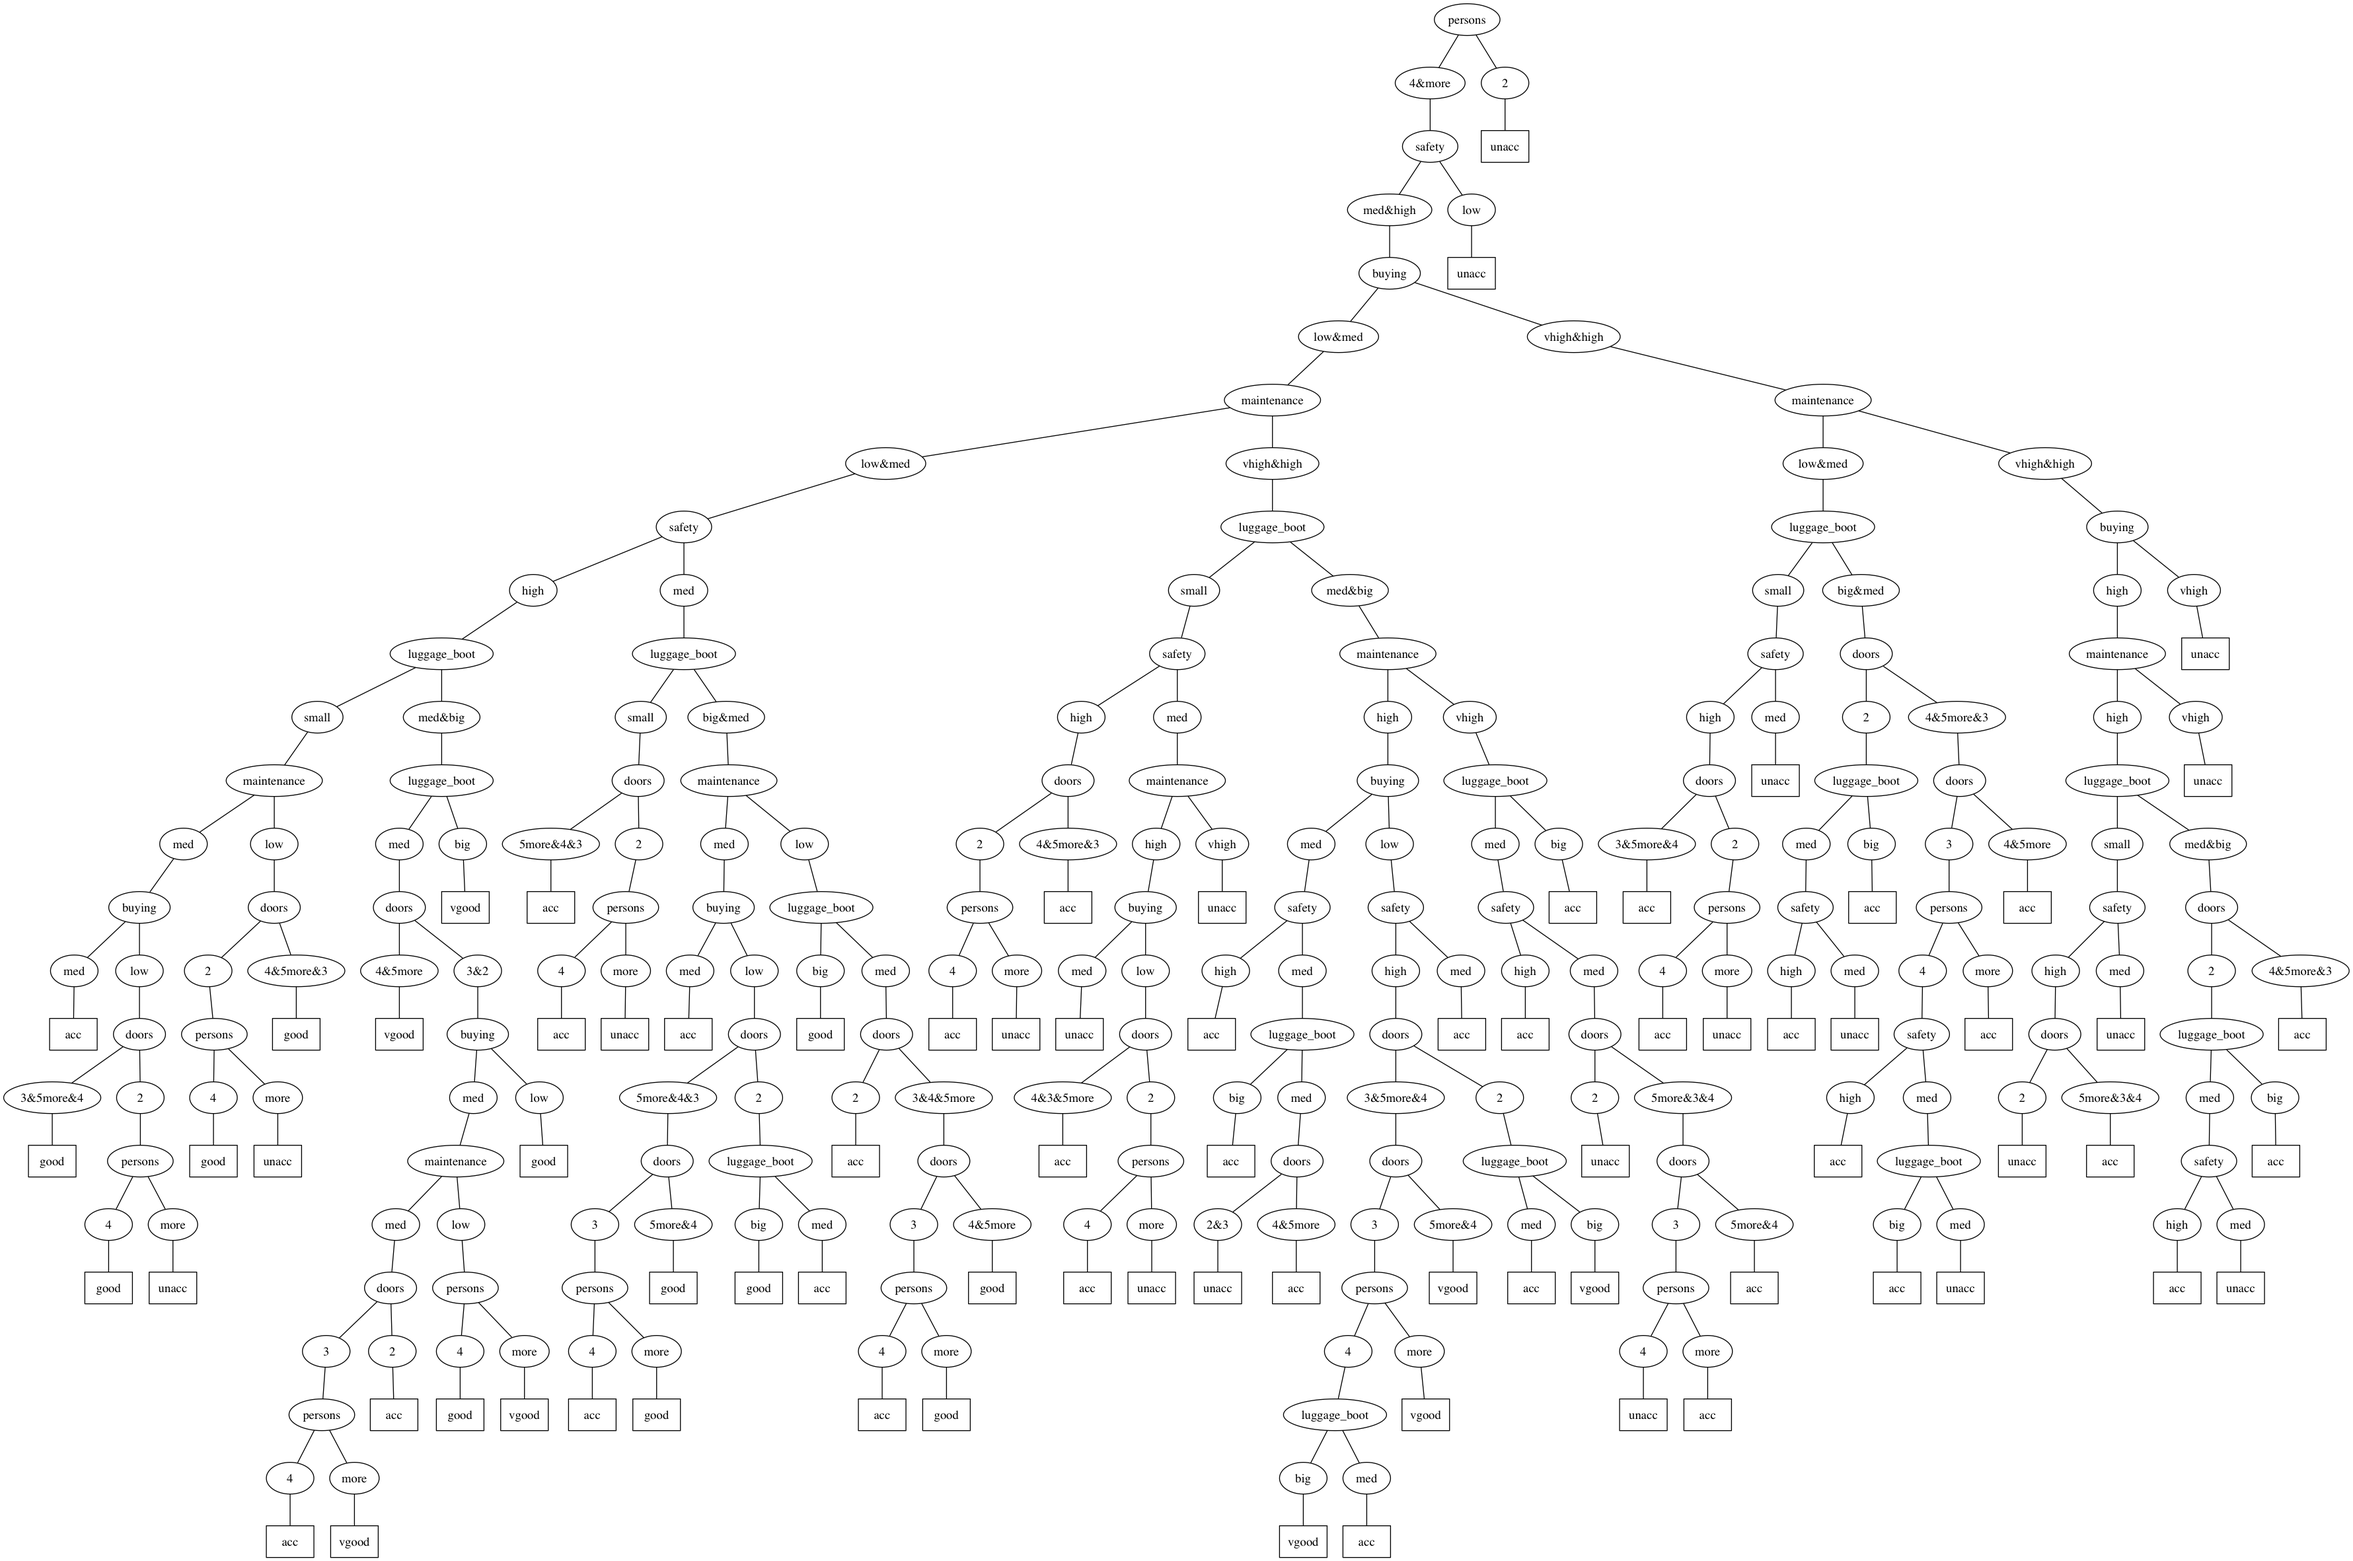
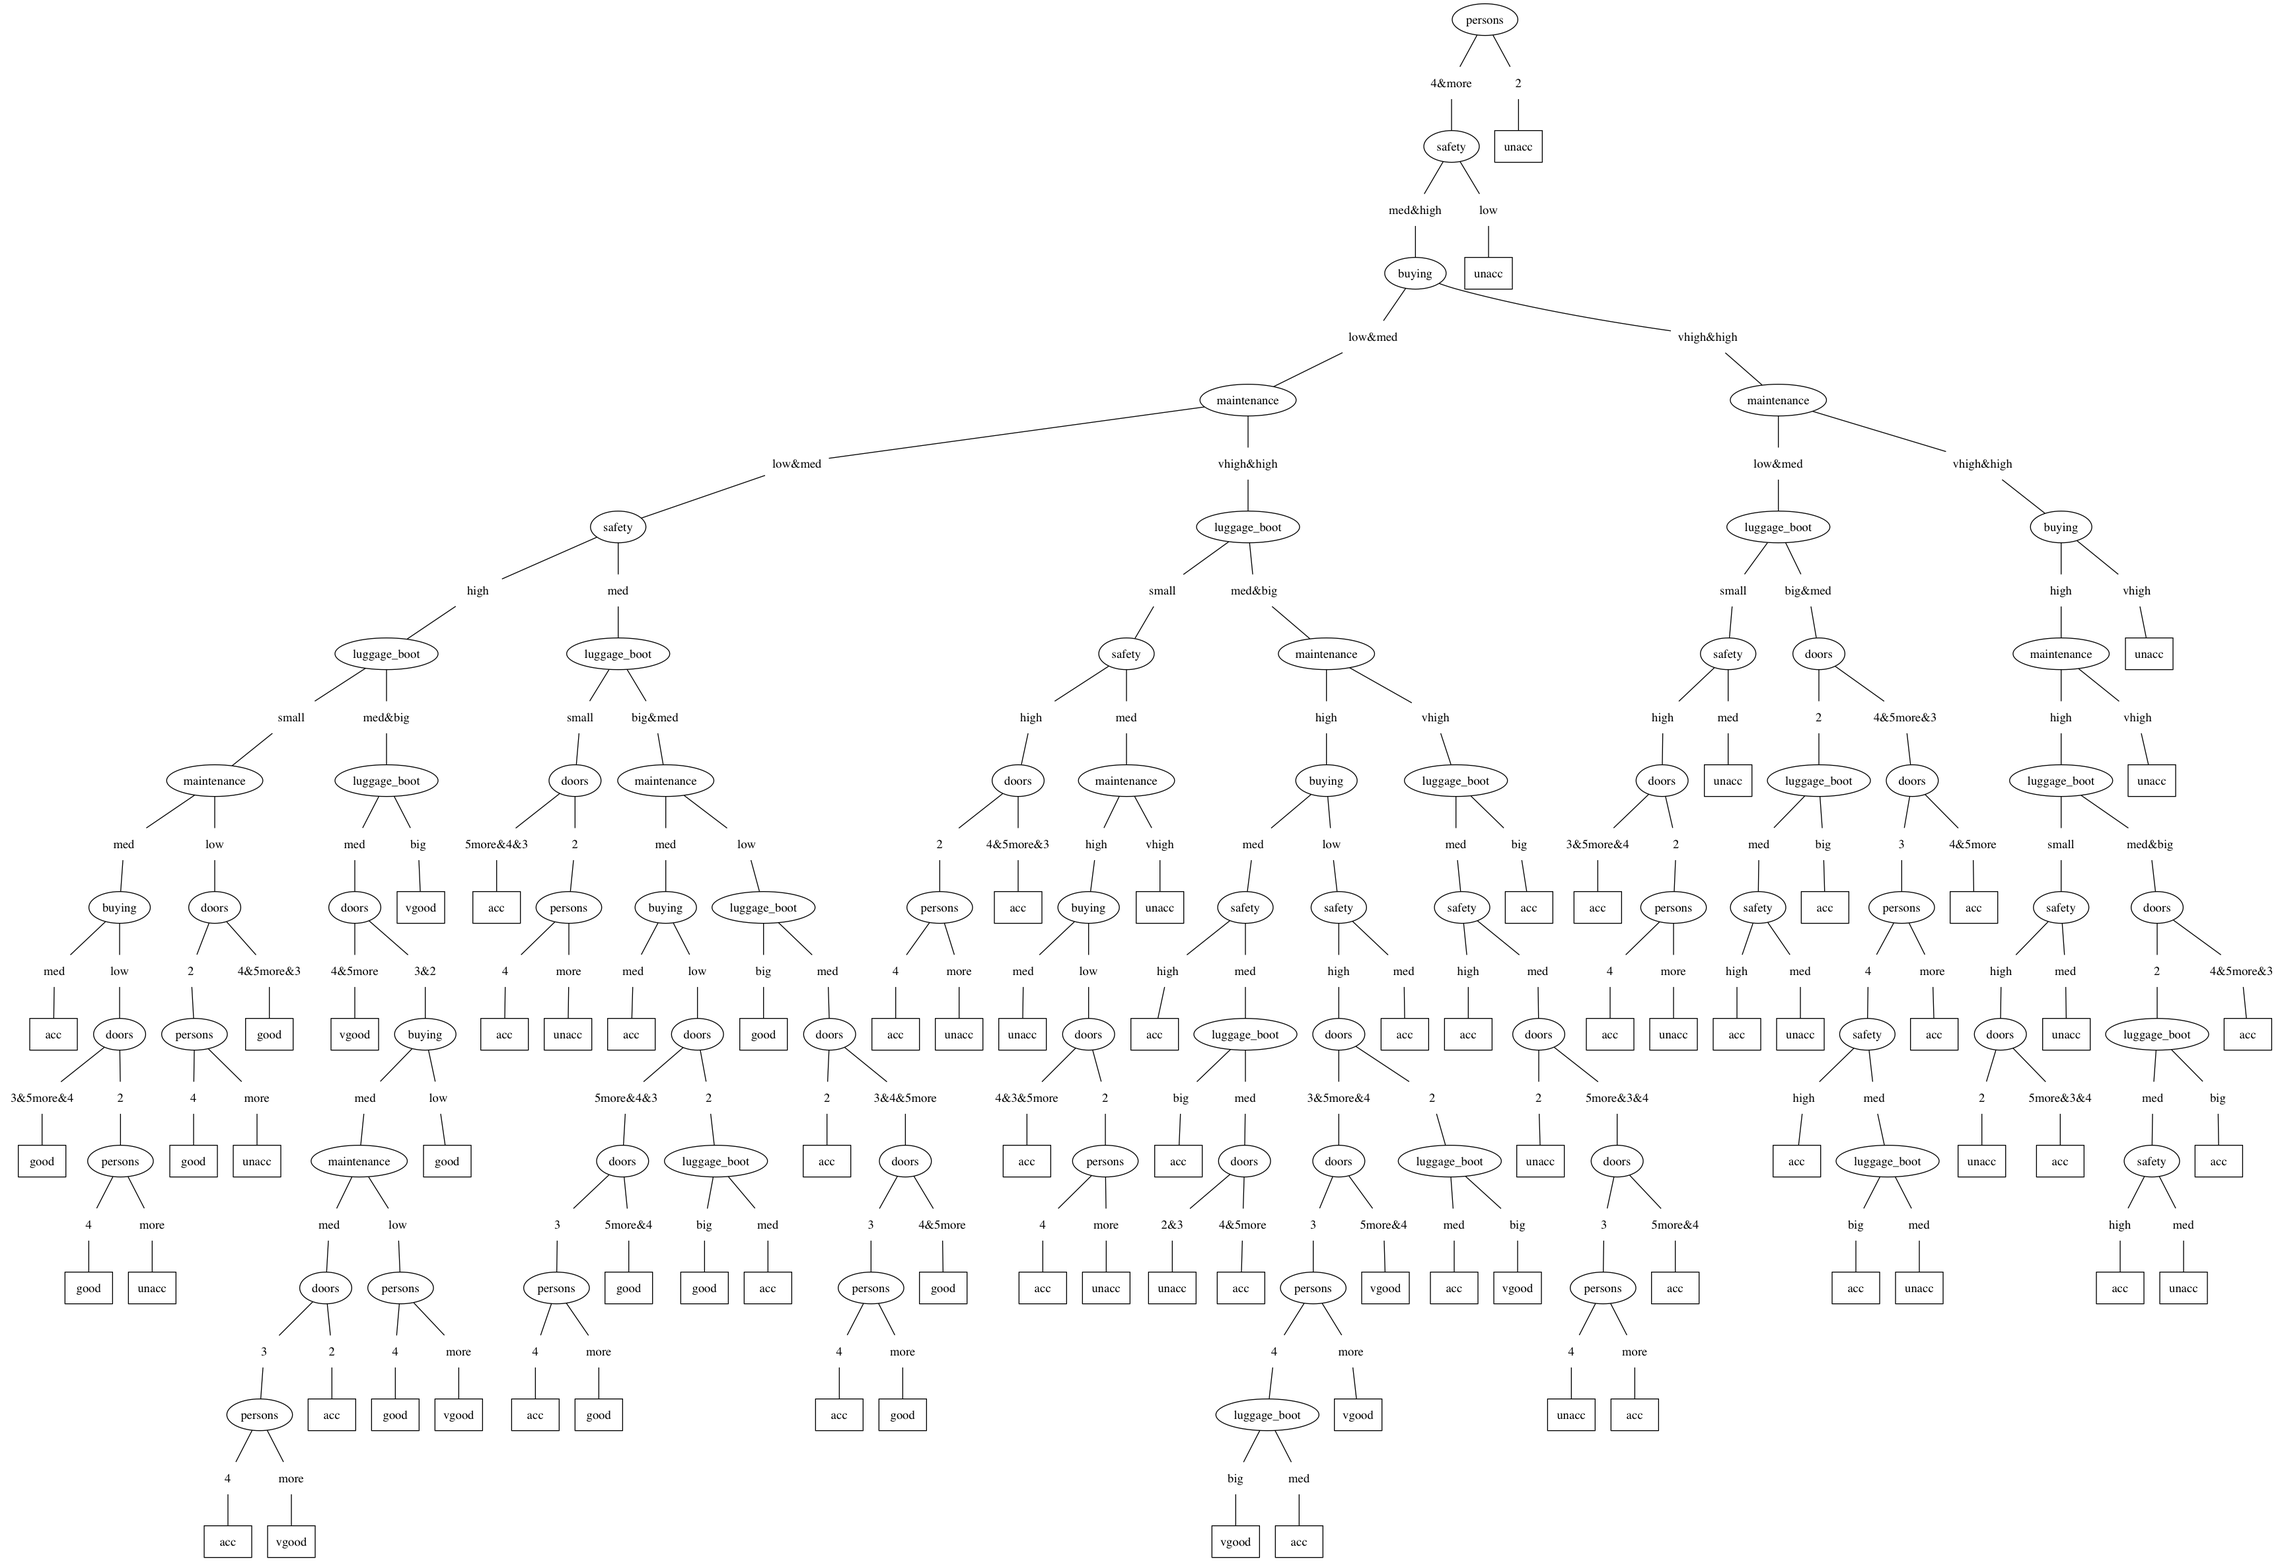
tree plot update

diff --git a/decision_tree.py b/decision_tree.py
@@ -146,7 +146,11 @@ def walk_dictionaryv2(graph, dictionary, parent_node=None):
             from_name = parent_node.get_name().replace("\"", "") + '_' + str(k)
             from_label = str(k)
 
-            node_from = pydot.Node(from_name, label = from_label)
+            if k in attributes:
+                node_from = pydot.Node(from_name, label = from_label)
+            else:
+                node_from = pydot.Node(from_name, label = from_label, shape='plaintext')
+
             graph.add_node(node_from)
 
             graph.add_edge( pydot.Edge(parent_node, node_from) )

diff --git a/decision_tree_Gini.py b/decision_tree_Gini.py
@@ -182,7 +182,11 @@ def walk_dictionaryv2(graph, dictionary, parent_node=None):
             from_name = parent_node.get_name().replace("\"", "") + '_' + str(k)
             from_label = str(k)
 
-            node_from = pydot.Node(from_name, label = from_label)
+            if k in attributes:
+                node_from = pydot.Node(from_name, label = from_label)
+            else:
+                node_from = pydot.Node(from_name, label = from_label, shape='plaintext')
+
             graph.add_node(node_from)
 
             graph.add_edge( pydot.Edge(parent_node, node_from) )
